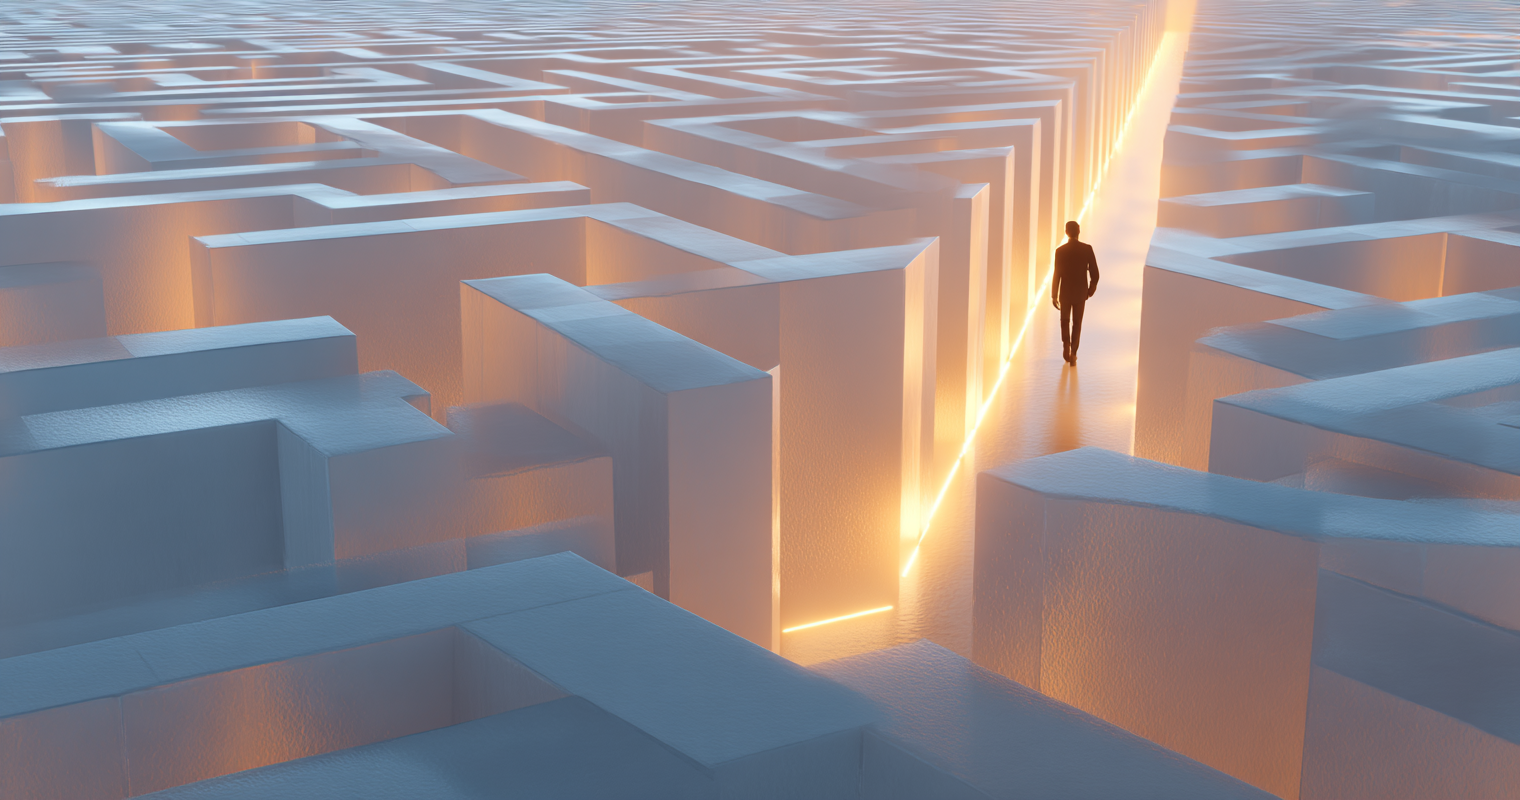
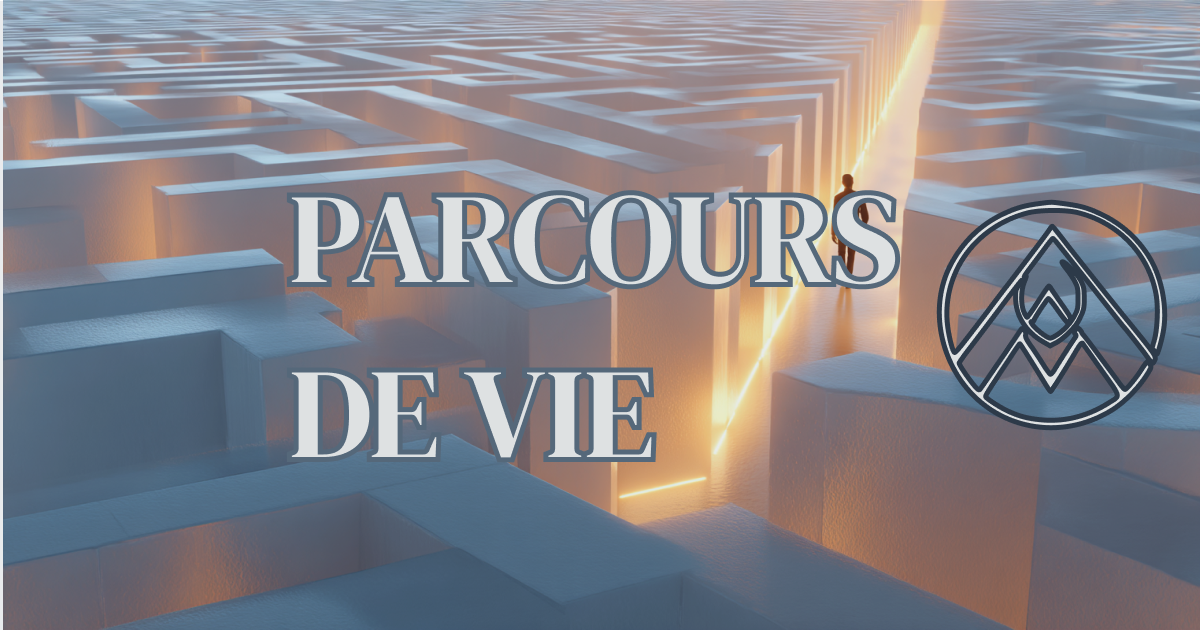
meta dans slug

diff --git a/app/studio/[slug]/page.jsx b/app/studio/[slug]/page.jsx
@@ -5,6 +5,41 @@ import path from 'path'
 import fs from 'fs'
 import dynamic from 'next/dynamic'
 
+
+// app/marketplace/[slug]/generateMetadata.jsx
+import { getContentMeta } from '@/lib/server/getContent'
+
+export async function generateMetadata({ params }) {
+  const meta = getContentMeta('Studio', params.slug)
+  if (!meta) return { title: 'Studio – Alforis' }
+
+  const title = `${meta.title} – Alforis`
+  const description = meta.description || meta.title
+  const url = `https://www.alforis.fr/offres/${params.slug}`
+
+  return {
+    title,
+    description,
+    alternates: { canonical: url },
+    openGraph: {
+      title,
+      description,
+      url,
+      siteName: 'Alforis',
+      locale: 'fr_FR',
+      type: 'article',
+      images: meta.image ? [meta.image] : [],
+    },
+    twitter: {
+      card: 'summary_large_image',
+      title,
+      description,
+      images: meta.image ? [meta.image] : [],
+    },
+  }
+}
+
+
 export async function generateStaticParams() {
   const studioDir = path.join(process.cwd(), 'content/studio')
   const files = fs.readdirSync(studioDir)

diff --git a/app/marketplace/[slug]/page.jsx b/app/marketplace/[slug]/page.jsx
@@ -8,6 +8,40 @@ import { notFound } from 'next/navigation'
 
 const components = { CTA }
 
+// app/marketplace/[slug]/generateMetadata.jsx
+import { getContentMeta } from '@/lib/server/getContent'
+
+export async function generateMetadata({ params }) {
+  const meta = getContentMeta('offres', params.slug)
+  if (!meta) return { title: 'Offres – Alforis' }
+
+  const title = `${meta.title} – Alforis`
+  const description = meta.description || meta.title
+  const url = `https://www.alforis.fr/offres/${params.slug}`
+
+  return {
+    title,
+    description,
+    alternates: { canonical: url },
+    openGraph: {
+      title,
+      description,
+      url,
+      siteName: 'Alforis',
+      locale: 'fr_FR',
+      type: 'article',
+      images: meta.image ? [meta.image] : [],
+    },
+    twitter: {
+      card: 'summary_large_image',
+      title,
+      description,
+      images: meta.image ? [meta.image] : [],
+    },
+  }
+}
+
+
 export async function generateStaticParams() {
   // On génère un tableau de { slug } pour toutes les offres
   const slugs = await getContentSlugs('offres')

diff --git a/app/parcours/[slug]/page.jsx b/app/parcours/[slug]/page.jsx
@@ -5,6 +5,39 @@ import ClientParcoursWrapper from './ClientParcoursWrapper'
 import { getContentMeta, getContentSlugs } from '@/lib/server/getContent'
 import { notFound } from 'next/navigation'
 
+
+export async function generateMetadata({ params }) {
+  const { slug } = await params
+  const meta = await getContentMeta('parcours', slug)
+  if (!meta) return { title: 'Parcours – Alforis' }
+
+  const title = `${meta.title} – Alforis`
+  const description = meta.description || meta.title
+  const url = `https://www.alforis.fr/parcours/${slug}`
+
+  return {
+    title,
+    description,
+    alternates: { canonical: url },
+    openGraph: {
+      title,
+      description,
+      url,
+      siteName: 'Alforis',
+      locale: 'fr_FR',
+      type: 'article',
+      images: meta.image ? [meta.image] : [],
+    },
+    twitter: {
+      card: 'summary_large_image',
+      title,
+      description,
+      images: meta.image ? [meta.image] : [],
+    },
+  }
+}
+
+
 export async function generateStaticParams() {
   return getContentSlugs('parcours').map(({ slug }) => ({ slug }))
 }

diff --git a/app/blog/[slug]/page.jsx b/app/blog/[slug]/page.jsx
@@ -9,6 +9,40 @@ import { notFound } from 'next/navigation'
 
 const components = { CTA }
 
+// app/marketplace/[slug]/generateMetadata.jsx
+import { getContentMeta } from '@/lib/server/getContent'
+
+export async function generateMetadata({ params }) {
+  const meta = getContentMeta('Blog', params.slug)
+  if (!meta) return { title: 'Blog – Alforis' }
+
+  const title = `${meta.title} – Alforis`
+  const description = meta.description || meta.title
+  const url = `https://www.alforis.fr/offres/${params.slug}`
+
+  return {
+    title,
+    description,
+    alternates: { canonical: url },
+    openGraph: {
+      title,
+      description,
+      url,
+      siteName: 'Alforis',
+      locale: 'fr_FR',
+      type: 'article',
+      images: meta.image ? [meta.image] : [],
+    },
+    twitter: {
+      card: 'summary_large_image',
+      title,
+      description,
+      images: meta.image ? [meta.image] : [],
+    },
+  }
+}
+
+
 export async function generateStaticParams() {
   const slugs = getContentSlugs('blog')
   return slugs.map(({ slug }) => ({ slug }))
